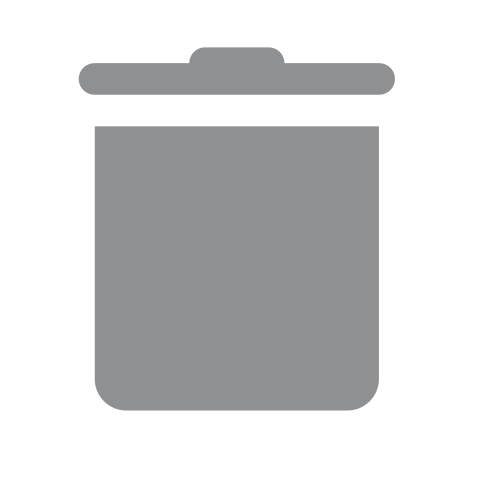
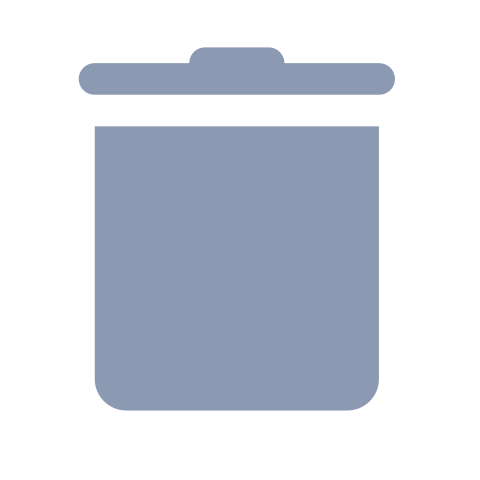
action button colors adjustment

diff --git a/src/DownloadModal.tsx b/src/DownloadModal.tsx
@@ -28,7 +28,7 @@ export class DownloadModal extends Component<
 					}}
 					onClick={e => e.stopPropagation()}
 				>
-					<h1>Export Shortcut</h1>
+					<h1>Download Shortcut Export</h1>
 					{this.props.file ? (
 						<div className="download-grid">
 							<div>

diff --git a/src/FilePane.css b/src/FilePane.css
@@ -155,8 +155,7 @@
 	cursor: pointer;
 }
 .action-btns div:active {
-	/* background-color: #007aff20; */
-	background-color: #888;
+	background-color: #8c99b3;
 }
 .edit-btn {
 	background-image: url(img/edit.png);
